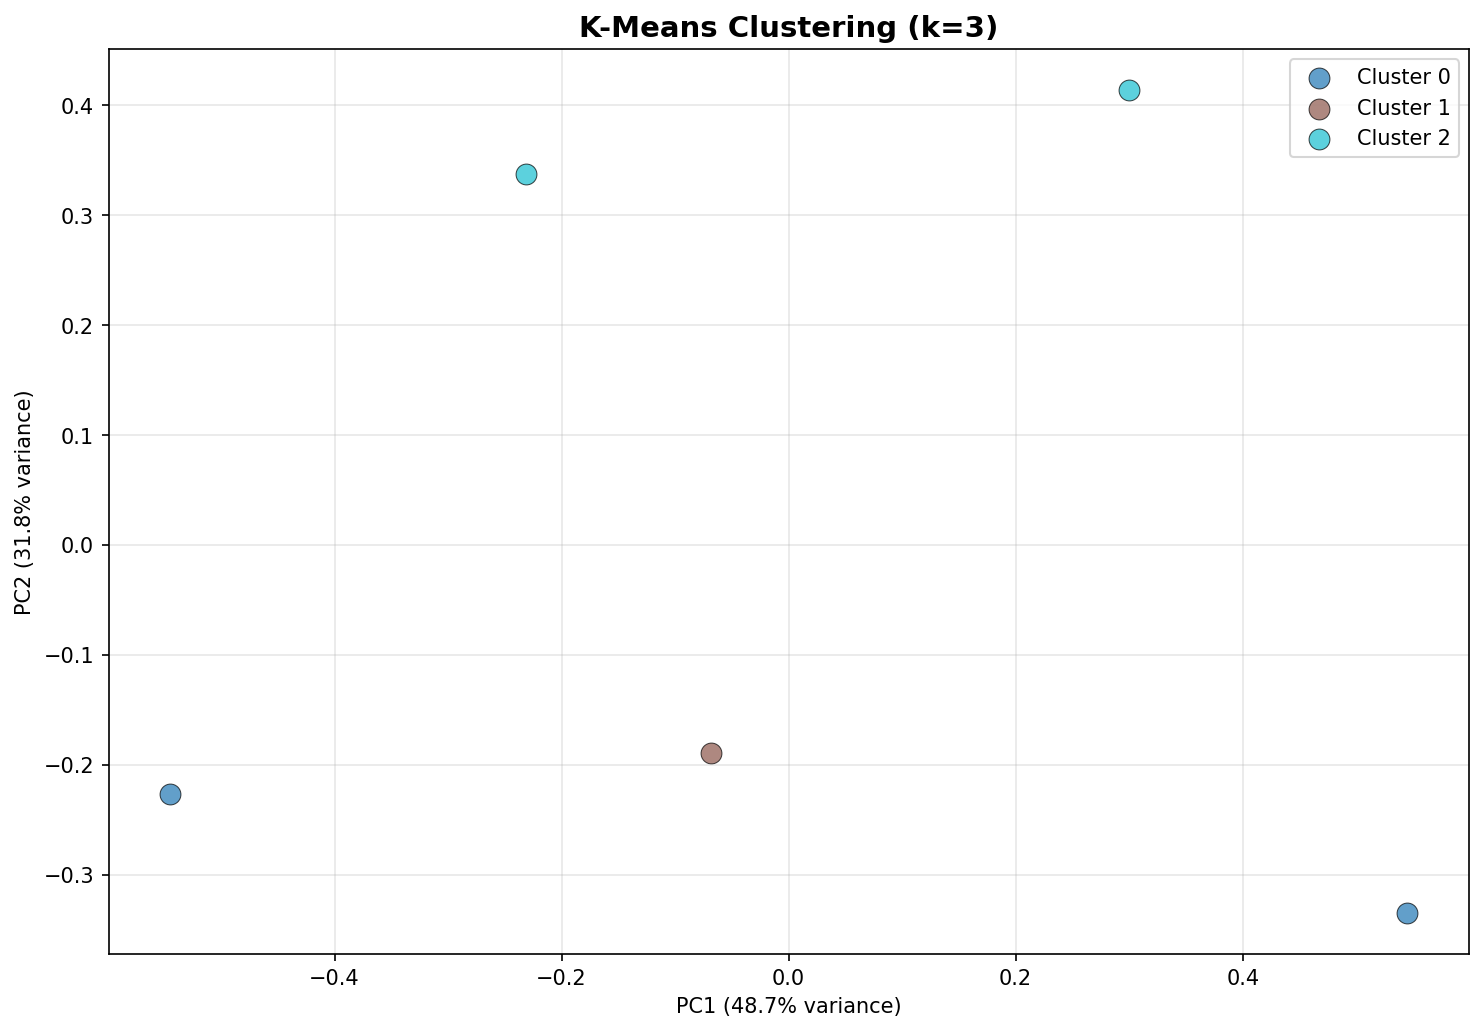
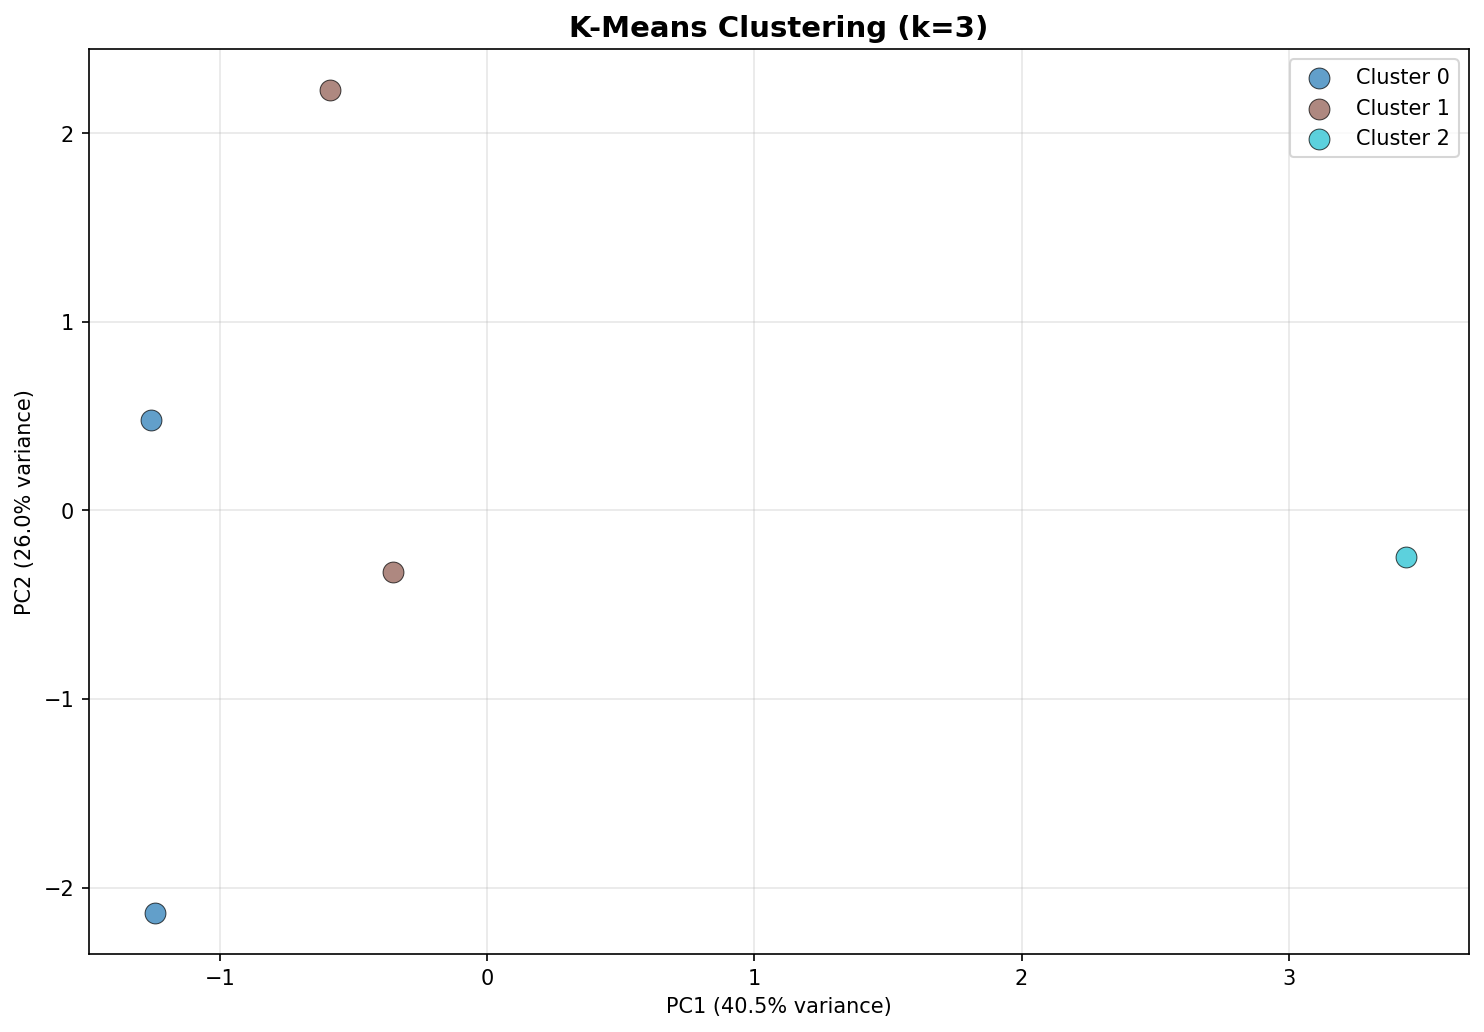
Add worker limiting and NMF basis/activation clustering modes
Features:
- New --n-jobs parameter: control parallel workers (-1=all, 1=sequential)
- New --cluster-mode parameter with 4 options:
  * 'features' (default): 48-dim aggregated features
  * 'basis': 768-dim flattened W matrices (frequency patterns)
  * 'activation': 6-dim mean H activations (temporal patterns)
  * 'combined': 774-dim W+H stacked (complete NMF representation)

Benefits:
- Sequential mode useful for debugging or resource-constrained systems
- Basis mode discovers frequency patterns in individual files
- Activation mode focuses on temporal dynamics
- Combined mode uses complete NMF information

Tested modes:
- Sequential (n_jobs=1): slower but deterministic
- NMF basis clustering: 768 features, different groupings
- NMF activation clustering: 6 features, focuses on time patterns
- Combined clustering: full NMF representation

All 141 tests still passing.

diff --git a/src/kmeans_clusterer.py b/src/kmeans_clusterer.py
@@ -260,10 +260,43 @@ def _process_single_audio_file(
         return None, str(wav_file)
 
 
+def _process_single_audio_file_nmf(
+    wav_file: Path,
+    preprocessor: AudioPreprocessor,
+    feature_extractor: NMFFeatureExtractor,
+) -> Tuple[Optional[Tuple[np.ndarray, np.ndarray]], str]:
+    """
+    Process a single audio file to extract NMF basis (W) and activation (H) matrices.
+    
+    Returns (W, H) matrices for clustering individual components, not aggregated features.
+    """
+    try:
+        result = load_audio(str(wav_file))
+        if result is None or len(result) != 2:
+            return None, str(wav_file)
+        
+        audio, sr = result
+        if audio is None:
+            return None, str(wav_file)
+        
+        spectrogram = preprocessor.preprocess(audio, sr)
+        # Extract features to compute NMF
+        _ = feature_extractor.extract(spectrogram)
+        # Get the W (basis) and H (activation) matrices
+        W, H = feature_extractor.get_components()
+        return (W, H), str(wav_file)
+    
+    except Exception as e:
+        logger.warning(f"Failed to process {wav_file.name}: {e}")
+        return None, str(wav_file)
+
+
 def cluster_audio_directory(
     data_dir: Path,
     n_clusters: int = 3,
     config: Optional[Dict] = None,
+    n_jobs: int = -1,
+    cluster_mode: str = 'features',
 ) -> Tuple[ClusteringResult, KMeansClusterer, List[str]]:
     """
     Convenience function to load audio directory and run clustering.
@@ -272,6 +305,8 @@ def cluster_audio_directory(
         data_dir: Directory containing WAV files
         n_clusters: Number of clusters to find
         config: Configuration dict (uses defaults if None)
+        n_jobs: Number of parallel workers (-1 = all cores, 1 = sequential)
+        cluster_mode: 'features' (aggregated), 'basis' (W), 'activation' (H), or 'combined'
 
     Returns:
         Tuple of (ClusteringResult, KMeansClusterer, list of audio files)
@@ -293,6 +328,7 @@ def cluster_audio_directory(
     # Load audio files
     preprocessor = AudioPreprocessor(**config["preprocessor"])
     feature_extractor = NMFFeatureExtractor(**config["nmf"])
+    n_components = config["nmf"]["n_components"]
 
     wav_files = sorted(Path(data_dir).glob("*.wav"))
     logger.info(f"Found {len(wav_files)} WAV files in {data_dir}")
@@ -301,24 +337,66 @@ def cluster_audio_directory(
         raise ValueError(f"No WAV files found in {data_dir}")
 
     # Extract features using parallel processing
-    logger.info(f"Extracting features from {len(wav_files)} files (parallel processing)...")
+    if cluster_mode == 'features':
+        # Standard: aggregate features per file
+        logger.info(f"Extracting aggregated features from {len(wav_files)} files (n_jobs={n_jobs})...")
+        results = Parallel(n_jobs=n_jobs, verbose=1)(
+            delayed(_process_single_audio_file)(wav_file, preprocessor, feature_extractor)
+            for wav_file in wav_files
+        )
+        
+        features_list = []
+        valid_files = []
+        for features, filepath in results:
+            if features is not None:
+                features_list.append(features)
+                valid_files.append(filepath)
+                logger.debug(f"Extracted features from {Path(filepath).name}")
+        
+        features = np.array(features_list)
+        logger.info(f"Extracted {features.shape[1]}-dim features from {len(valid_files)} files")
     
-    results = Parallel(n_jobs=-1, verbose=1)(
-        delayed(_process_single_audio_file)(wav_file, preprocessor, feature_extractor)
-        for wav_file in wav_files
-    )
-    
-    # Collect valid results
-    features_list = []
-    valid_files = []
-    for features, filepath in results:
-        if features is not None:
-            features_list.append(features)
-            valid_files.append(filepath)
-            logger.debug(f"Extracted features from {Path(filepath).name}")
-    
-    features = np.array(features_list)
-    logger.info(f"Extracted {features.shape[1]}-dim features from {len(valid_files)} files")
+    else:
+        # NMF-based: cluster W and/or H matrices
+        logger.info(f"Extracting NMF basis/activation from {len(wav_files)} files (n_jobs={n_jobs})...")
+        results = Parallel(n_jobs=n_jobs, verbose=1)(
+            delayed(_process_single_audio_file_nmf)(wav_file, preprocessor, feature_extractor)
+            for wav_file in wav_files
+        )
+        
+        valid_files = []
+        W_list = []
+        H_list = []
+        
+        for nmf_result, filepath in results:
+            if nmf_result is not None:
+                W, H = nmf_result
+                W_list.append(W)
+                H_list.append(H)
+                valid_files.append(filepath)
+                logger.debug(f"Extracted NMF from {Path(filepath).name}: W={W.shape}, H={H.shape}")
+        
+        # Flatten W and H matrices based on cluster_mode
+        if cluster_mode == 'basis':
+            # Cluster W (basis functions): flatten each W matrix
+            features = np.array([W.flatten() for W in W_list])
+            logger.info(f"Clustering W basis: {features.shape[0]} files × {features.shape[1]} features")
+        
+        elif cluster_mode == 'activation':
+            # Cluster H (activations): mean across time, then flatten
+            features = np.array([np.mean(H, axis=1) for H in H_list])
+            logger.info(f"Clustering H activation means: {features.shape[0]} files × {features.shape[1]} features")
+        
+        elif cluster_mode == 'combined':
+            # Combine W and H: stack basis with mean activation
+            features_list = []
+            for W, H in zip(W_list, H_list):
+                W_flat = W.flatten()
+                H_mean = np.mean(H, axis=1)
+                combined = np.concatenate([W_flat, H_mean])
+                features_list.append(combined)
+            features = np.array(features_list)
+            logger.info(f"Clustering combined W+H: {features.shape[0]} files × {features.shape[1]} features")
 
     # Cluster
     clusterer = KMeansClusterer(n_clusters=n_clusters)

diff --git a/src/cli.py b/src/cli.py
@@ -899,6 +899,18 @@ def config(
     help='Number of NMF components. [default: 6]'
 )
 @click.option(
+    '--n-jobs',
+    type=int,
+    default=-1,
+    help='Number of parallel workers. -1 = all cores, 1 = sequential. [default: -1]'
+)
+@click.option(
+    '--cluster-mode',
+    type=click.Choice(['features', 'basis', 'activation', 'combined']),
+    default='features',
+    help='What to cluster: features (aggregated), basis (W), activation (H), or combined. [default: features]'
+)
+@click.option(
     '--verbose',
     is_flag=True,
     help='Enable verbose logging.'
@@ -910,6 +922,8 @@ def cluster(
     plot_dir: str,
     find_optimal: bool,
     n_components: int,
+    n_jobs: int,
+    cluster_mode: str,
     verbose: bool
 ) -> None:
     """
@@ -940,7 +954,7 @@ def cluster(
             click.echo(click.style("[*] Testing cluster counts (2-10)...", fg="cyan"))
 
             result, clusterer, files = cluster_audio_directory(
-                Path(input_dir), n_clusters=2, config=config
+                Path(input_dir), n_clusters=2, config=config, n_jobs=n_jobs, cluster_mode=cluster_mode
             )
 
             # Test different k values
@@ -961,7 +975,7 @@ def cluster(
             n_clusters = best_k
             click.echo(f"\nReclustering with k={n_clusters}...")
             result, clusterer, files = cluster_audio_directory(
-                Path(input_dir), n_clusters=n_clusters, config=config
+                Path(input_dir), n_clusters=n_clusters, config=config, n_jobs=n_jobs, cluster_mode=cluster_mode
             )
 
             # Save elbow plot
@@ -971,9 +985,9 @@ def cluster(
             click.echo(f"  Saved: {elbow_path}")
         else:
             # Standard clustering
-            click.echo(click.style(f"[*] Clustering {input_dir} into {n_clusters} clusters...", fg="cyan"))
+            click.echo(click.style(f"[*] Clustering {input_dir} into {n_clusters} clusters (mode={cluster_mode}, n_jobs={n_jobs})...", fg="cyan"))
             result, clusterer, files = cluster_audio_directory(
-                Path(input_dir), n_clusters=n_clusters, config=config
+                Path(input_dir), n_clusters=n_clusters, config=config, n_jobs=n_jobs, cluster_mode=cluster_mode
             )
 
         # Print cluster info
